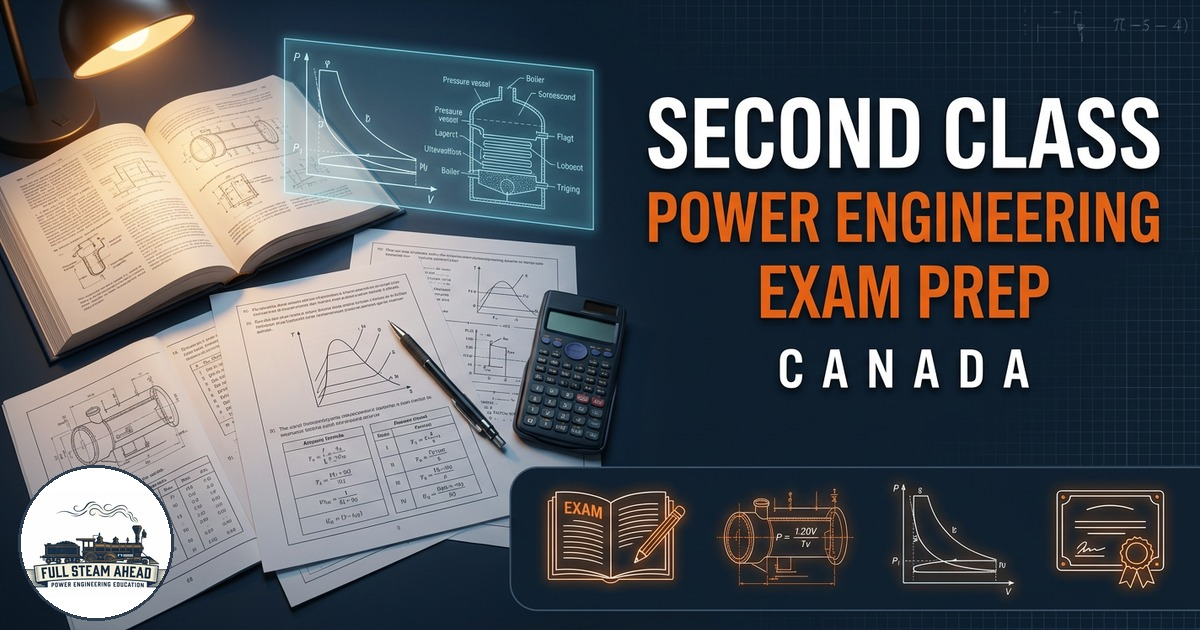
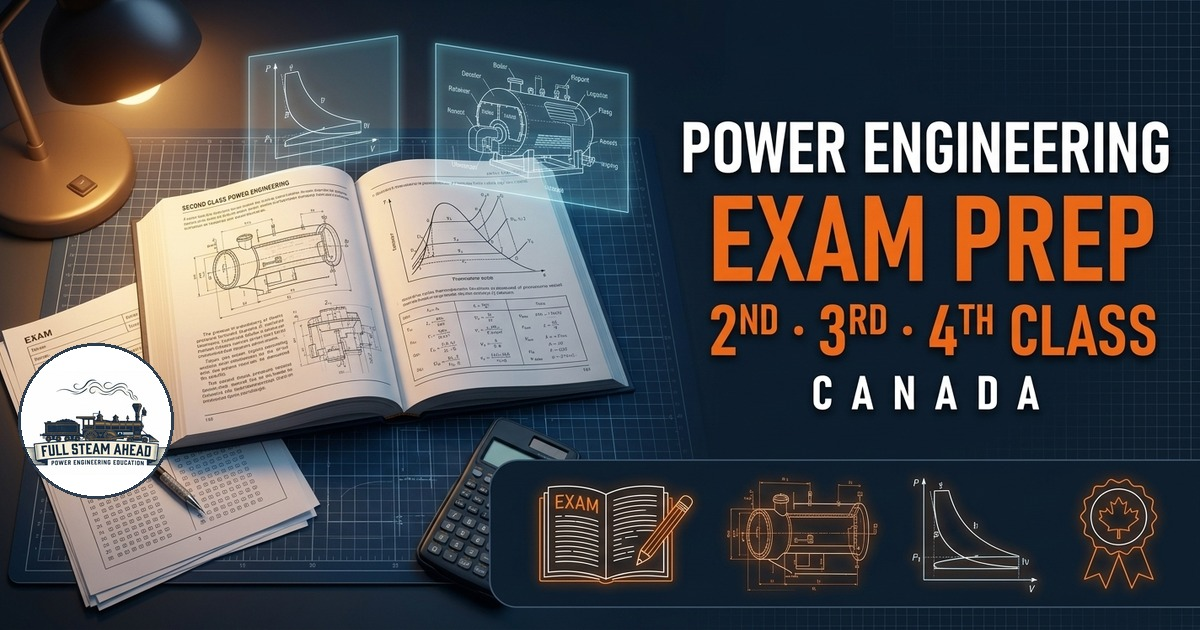
feat: update homepage meta title/description + OG image for 4th Class launch

diff --git a/index.html b/index.html
@@ -3,8 +3,8 @@
 <head>
   <meta charset="UTF-8">
   <meta name="viewport" content="width=device-width, initial-scale=1.0">
-  <title>Full Steam Ahead – Power Engineering Exam Prep (2nd & 3rd Class)</title>
-  <meta name="description" content="Full Steam Ahead is a Power Engineering exam prep online course built for working operators in Canada — 2nd Class (six papers) and 3rd Class (four papers). Paper-by-paper study, adaptive practice exams, and AI tutoring to prepare for your power engineer exam.">
+  <title>Full Steam Ahead – Power Engineering Exam Prep (2nd, 3rd & 4th Class)</title>
+  <meta name="description" content="Full Steam Ahead is a Power Engineering exam prep online course built for working operators in Canada — 2nd Class (six papers), 3rd Class (four papers), and 4th Class (chapter quizzes and adaptive practice exams). Paper-by-paper study, adaptive practice exams, and AI tutoring to prepare for your power engineer exam.">
   <link rel="canonical" href="https://fullsteamahead.ca/">
   <link rel="icon" type="image/png" href="/assets/favicon.png">
   <link rel="preconnect" href="https://fonts.googleapis.com">
@@ -23,8 +23,8 @@ j=d.createElement(s),dl=l!='dataLayer'?'&l='+l:'';j.async=true;j.src=
 
   <meta property="og:type" content="website">
   <meta property="og:site_name" content="Full Steam Ahead">
-  <meta property="og:title" content="Full Steam Ahead – Power Engineering Exam Prep (2nd & 3rd Class)">
-  <meta property="og:description" content="Study for your 2nd or 3rd Class power engineering exam with dedicated courses for every SOPEEC paper and an adaptive practice exam system. Built for working Canadian operators.">
+  <meta property="og:title" content="Full Steam Ahead – Power Engineering Exam Prep (2nd, 3rd & 4th Class)">
+  <meta property="og:description" content="Study for your 2nd, 3rd, or 4th Class power engineering exam with dedicated courses for every SOPEEC paper and an adaptive practice exam system. Built for working Canadian operators.">
   <meta property="og:url" content="https://fullsteamahead.ca/">
   <meta property="og:image" content="https://fullsteamahead.ca/assets/og-image.jpg">
   <meta property="og:image:width" content="1200">
